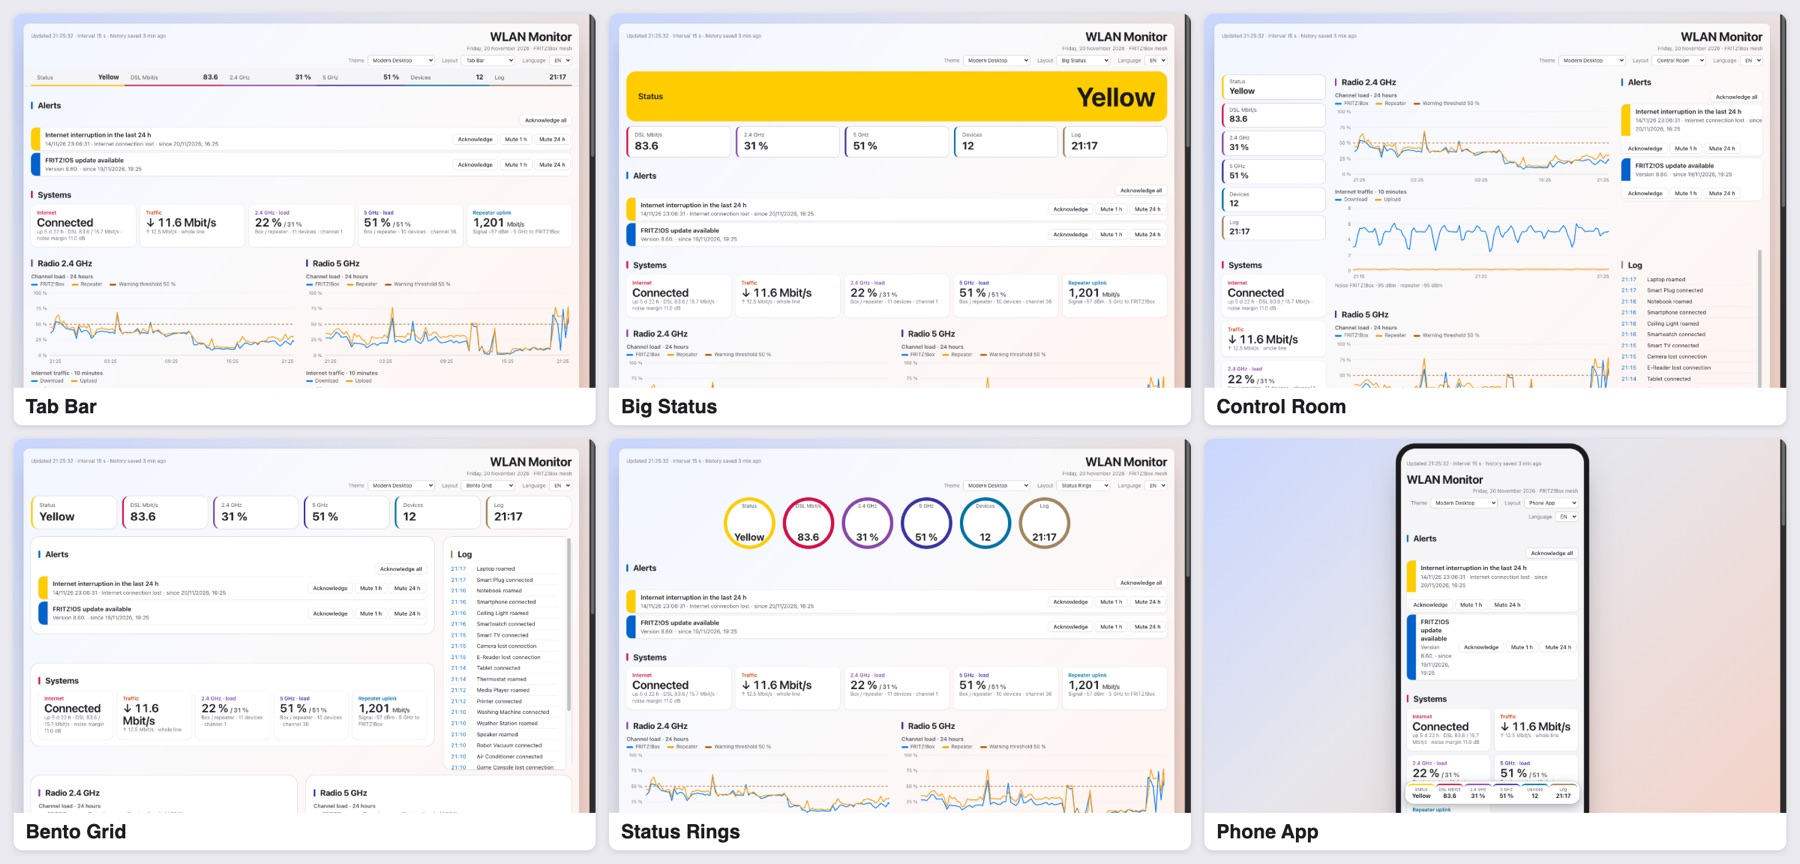
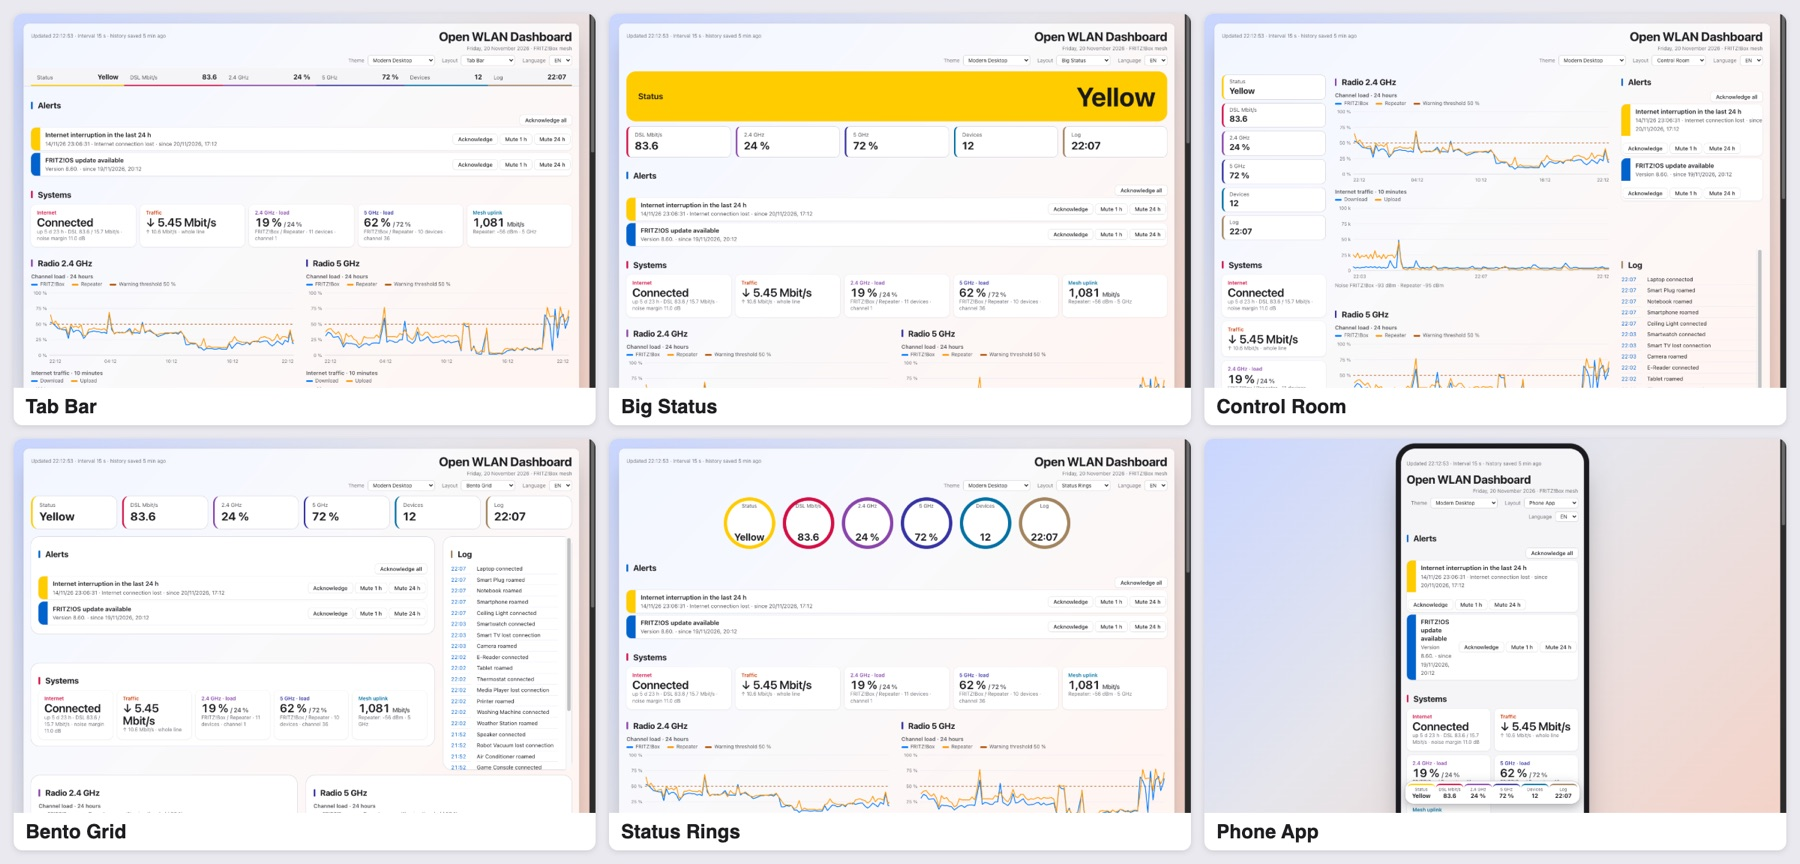
Rename to Open WLAN Dashboard and prefix all settings with OWD_
Settings: every .env key now starts with OWD_ (OWD_FRITZ_HOST, OWD_POLL_S,
OWD_IP, ...) so they cannot clash with other environment variables; TZ
stays as it is. The Python constants keep their short names.

Name: page title, README, banner, Docker image (open-wlan-dashboard) and
the LaunchAgent template (local.open-wlan-dashboard.collect) use the new
project name. The banner keeps the logo at full size with the longer title.
README screenshots show the new title and neutral router names; the
.env.example and self-test examples no longer use a real repeater name.

diff --git a/web/index.html b/web/index.html
@@ -1,5 +1,5 @@
 <!doctype html><html lang="en"><head><meta charset="utf-8"><meta name="viewport" content="width=device-width,initial-scale=1">
-<title>WLAN Monitor</title>
+<title>Open WLAN Dashboard</title>
 <link rel="preconnect" href="https://fonts.googleapis.com"><link rel="preconnect" href="https://fonts.gstatic.com" crossorigin>
 <link rel="stylesheet" href="/base.css"><link rel="stylesheet" href="/themes.css"><link rel="stylesheet" href="/layouts.css">
 <link href="https://fonts.googleapis.com/css2?family=Antonio:wght@400;600;700&family=Black+Ops+One&family=Old+Standard+TT:ital,wght@0,400;0,700;1,400&family=Orbitron:wght@500;700;900&family=Playfair+Display:wght@700;900&family=Press+Start+2P&family=Rajdhani:wght@500;700&family=UnifrakturMaguntia&family=Zilla+Slab:wght@700&family=Bitter:wght@400;700&family=Fredoka:wght@500;700&family=Pacifico&family=Nunito:wght@400;700;800&family=Lobster&family=Oswald:wght@400;600&family=Caveat+Brush&family=VT323&family=Barlow+Condensed:wght@500;700&family=Jost:wght@400;600;800&family=Share+Tech+Mono&family=Audiowide&family=IBM+Plex+Mono:wght@400;600&family=Architects+Daughter&family=Oxanium:wght@500;700&family=Rye&family=Special+Elite&family=MedievalSharp&family=Poiret+One&family=Bangers&family=Comic+Neue:wght@400;700&family=Shippori+Mincho:wght@500;700&family=Comfortaa:wght@500;700&family=Quicksand:wght@500;700&family=Mountains+of+Christmas:wght@700&family=Cabin+Sketch:wght@700&family=Patrick+Hand&family=Kalam:wght@400;700&family=Abril+Fatface&family=Lora:wght@400;600&family=B612:wght@400;700&family=B612+Mono&family=Silkscreen&family=Righteous&family=Bungee&family=Exo+2:wght@500;700&display=swap" rel="stylesheet" media="print" onload="this.media='all'"><!-- non-blocking: the page must load without internet -->
@@ -21,7 +21,7 @@
   <div class="bar" aria-hidden="true"><i style="flex:5;background:var(--o1)"></i><i style="width:70px;background:var(--li)"></i><i style="width:150px;background:var(--pw)"></i><i style="flex:1;background:var(--o2)"></i><i style="width:46px;background:var(--sk);border-radius:0 12px 12px 0"></i></div>
   <div class="inner">
    <header><div><span class="alarm" id="alarm" style="--c:var(--good)" data-i18n="loading">Loading …</span><div class="sub" id="upd" data-i18n="connecting">Connecting to the FRITZ!Box …</div></div>
-    <div><h1 data-i18n="title">WLAN Monitor</h1><div class="sub sd" id="sd"></div>
+    <div><h1 data-i18n="title">Open WLAN Dashboard</h1><div class="sub sd" id="sd"></div>
      <div class="prefs"><label class="themesel"><span data-i18n="theme">Theme</span> <select id="theme"><!--THEME_OPTIONS--></select></label>
      <label class="themesel"><span data-i18n="layout">Layout</span> <select id="layout"><!--LAYOUT_OPTIONS--></select></label>
      <label class="themesel"><span data-i18n="language">Language</span> <select id="lang"><option value="en">EN</option><option value="de">DE</option></select></label></div></div></header>

diff --git a/themes/desktop90s.css b/themes/desktop90s.css
@@ -20,7 +20,7 @@ html[data-theme="desktop90s"]{
  & .pill:hover,& .pill:focus-visible{background:#000080;color:#fff;filter:none}& .pill:hover b,& .pill:focus-visible b{color:#fff}
  & .main{background:#c0c0c0;box-shadow:var(--raised);padding:3px}
  & .main>.bar:first-child{height:24px;background:var(--title);color:#fff;font-weight:700;align-items:center;padding:0 4px 0 8px}
- & .main>.bar:first-child::before{content:"WLAN Monitor.exe"}&:lang(de) .main>.bar:first-child::before{content:"WLAN-Überwachung.exe"}
+ & .main>.bar:first-child::before{content:"OpenWLANDashboard.exe"}
  & .main>.bar:first-child::after{content:"✕";margin-left:auto;width:18px;height:16px;background:#c0c0c0;color:#000;box-shadow:var(--raised);font-size:11px;display:grid;place-items:center}
  & .main>.bar i{display:none}& .main>.bar:last-child{display:none}
  & .inner::before,& .inner::after{display:none}& .inner{padding:12px 10px}

diff --git a/web/i18n.js b/web/i18n.js
@@ -1,7 +1,7 @@
 // Page texts by language. {name} is filled in by T() in app.js; alert texts are a.<key>.t (title) and a.<key>.d (detail).
 const I18N={
 en:{
- "title":"WLAN Monitor",
+ "title":"Open WLAN Dashboard",
  "nav":"Sections",
  "loading":"Loading …",
  "connecting":"Connecting to the FRITZ!Box …",
@@ -175,7 +175,7 @@ en:{
  "mesh":"FRITZ!Box mesh"
 },
 de:{
- "title":"WLAN-Überwachung",
+ "title":"Open WLAN Dashboard",
  "nav":"Bereiche",
  "loading":"Lade …",
  "connecting":"Verbinde mit der FRITZ!Box …",

diff --git a/dashboard.py b/dashboard.py
@@ -1,5 +1,5 @@
 #!/usr/bin/env python3
-"""Local WLAN health dashboard for a FRITZ!Box mesh (box + any number of mesh routers), read-only.
+"""Open WLAN Dashboard: local WLAN health dashboard for a FRITZ!Box mesh (box + any number of mesh routers), read-only.
 
 Shows internet line, band load, traffic, per-device link quality and recent WLAN events,
 and raises alerts early: always-on devices going offline, reconnect loops, weak signals,
@@ -22,21 +22,21 @@ THEME_DIR = os.path.join(DIR, "themes")   # one CSS file per theme, see README
 LAYOUT_DIR = os.path.join(DIR, "layouts") # one CSS file per layout (arrangement only, colours come from the theme)
 S = settings.get        # every setting below can be changed in .env; .env.example explains them
 PORT = live.PORT
-POLL_S = S("POLL_S", 15)                       # page refresh interval; the box is queried at most this often
-UTIL_WARN, UTIL_CRIT = S("UTIL_WARN", 50), S("UTIL_CRIT", 70)            # channel load in % (mean of the last 30 min)
-NOISE_WARN = S("NOISE_WARN", -85)                                        # dBm; values above mean a noisy channel
-RSSI_WARN, RSSI_CRIT = S("RSSI_WARN", -75), S("RSSI_CRIT", -80)          # dBm; only for always-on devices
-DROPS_WARN, DROPS_CRIT = S("DROPS_WARN", 4), S("DROPS_CRIT", 10)         # disconnects per hour, roaming excluded
-UPLINK_RSSI_WARN, UPLINK_RATE_WARN = S("UPLINK_RSSI_WARN", -70), S("UPLINK_RATE_WARN", 400)  # mesh uplink on 5 GHz
-SNR_WARN = S("SNR_WARN", 6.0)                                            # DSL noise margin in dB
-ALWAYS_ON_SHARE, ALWAYS_ON_MIN_SAMPLES = S("ALWAYS_ON_SHARE", 0.9), S("ALWAYS_ON_MIN_SAMPLES", 8)
-COLLECTOR_STALE_MIN = S("COLLECTOR_STALE_MIN", 40)
-REBOOT_ALERT_H = S("REBOOT_ALERT_H", 24)       # show a box restart this long
-ROAM_WINDOW_S = S("ROAM_WINDOW_S", 10)
-RECONNECT_WINDOW_S = S("RECONNECT_WINDOW_S", 600)  # a logoff is a drop only if the device is back this soon
-ACK_FORGET_S = S("ACK_FORGET_S", 600)          # a confirmation is dropped once its problem has been gone this long
+POLL_S = S("OWD_POLL_S", 15)                       # page refresh interval; the box is queried at most this often
+UTIL_WARN, UTIL_CRIT = S("OWD_UTIL_WARN", 50), S("OWD_UTIL_CRIT", 70)            # channel load in % (mean of the last 30 min)
+NOISE_WARN = S("OWD_NOISE_WARN", -85)                                        # dBm; values above mean a noisy channel
+RSSI_WARN, RSSI_CRIT = S("OWD_RSSI_WARN", -75), S("OWD_RSSI_CRIT", -80)          # dBm; only for always-on devices
+DROPS_WARN, DROPS_CRIT = S("OWD_DROPS_WARN", 4), S("OWD_DROPS_CRIT", 10)         # disconnects per hour, roaming excluded
+UPLINK_RSSI_WARN, UPLINK_RATE_WARN = S("OWD_UPLINK_RSSI_WARN", -70), S("OWD_UPLINK_RATE_WARN", 400)  # mesh uplink on 5 GHz
+SNR_WARN = S("OWD_SNR_WARN", 6.0)                                            # DSL noise margin in dB
+ALWAYS_ON_SHARE, ALWAYS_ON_MIN_SAMPLES = S("OWD_ALWAYS_ON_SHARE", 0.9), S("OWD_ALWAYS_ON_MIN_SAMPLES", 8)
+COLLECTOR_STALE_MIN = S("OWD_COLLECTOR_STALE_MIN", 40)
+REBOOT_ALERT_H = S("OWD_REBOOT_ALERT_H", 24)       # show a box restart this long
+ROAM_WINDOW_S = S("OWD_ROAM_WINDOW_S", 10)
+RECONNECT_WINDOW_S = S("OWD_RECONNECT_WINDOW_S", 600)  # a logoff is a drop only if the device is back this soon
+ACK_FORGET_S = S("OWD_ACK_FORGET_S", 600)          # a confirmation is dropped once its problem has been gone this long
 # devices never treated as always-on (no offline or weak-signal alerts), e.g. a game console that is often off
-NEVER_ALWAYS_ON = {m.upper() for m in S("NEVER_ALWAYS_ON", [])}
+NEVER_ALWAYS_ON = {m.upper() for m in S("OWD_NEVER_ALWAYS_ON", [])}
 MESH_NAMES = settings.mesh_names()             # display names for mesh nodes, see .env.example
 ACK_FILE = os.path.join(settings.DATA_DIR, "acks.json")
 RAISED_FILE = os.path.join(settings.DATA_DIR, "alerts.json")  # when each current alert first appeared
@@ -81,7 +81,7 @@ def classify(events):
 
 def ap_names(m, overrides=None):
     """{name in the box: display name} for the mesh nodes; "" stands for the box itself (its log lines carry no
-    [name] prefix). The master is 'FRITZ!Box', the others keep their name in the box; MESH_NAMES overrides both."""
+    [name] prefix). The master is 'FRITZ!Box', the others keep their name in the box; OWD_MESH_NAMES overrides both."""
     over = MESH_NAMES if overrides is None else overrides
     out = {}
     for n in m["nodes"]:
@@ -668,13 +668,13 @@ class Handler(BaseHTTPRequestHandler):
 
 def selftest():
     ev = [parse_event("13.11.26", "22:00:00", "WLAN-Gerät wurde abgemeldet (5 GHz), iPhone, IP 192.168.178.118, MAC 02:00:00:00:00:01."),
-          parse_event("13.11.26", "22:00:01", "[fritzrepeaterschlafzimmer] WLAN-Gerät angemeldet (5 GHz), 1201 Mbit/s, PC-02, IP 192.168.178.118, MAC 02:00:00:00:00:01."),
-          parse_event("13.11.26", "22:10:00", "[fritzrepeaterschlafzimmer] WLAN-Gerät hat sich abgemeldet (2,4 GHz), PC-00, IP 192.168.178.29, MAC 00:00:5E:00:53:01."),
-          parse_event("13.11.26", "22:10:02", "[fritzrepeaterschlafzimmer] WLAN-Gerät angemeldet (2,4 GHz), 72 Mbit/s, PC-00, IP 192.168.178.29, MAC 00:00:5E:00:53:01."),
+          parse_event("13.11.26", "22:00:01", "[fritzrepeater1] WLAN-Gerät angemeldet (5 GHz), 1201 Mbit/s, PC-02, IP 192.168.178.118, MAC 02:00:00:00:00:01."),
+          parse_event("13.11.26", "22:10:00", "[fritzrepeater1] WLAN-Gerät hat sich abgemeldet (2,4 GHz), PC-00, IP 192.168.178.29, MAC 00:00:5E:00:53:01."),
+          parse_event("13.11.26", "22:10:02", "[fritzrepeater1] WLAN-Gerät angemeldet (2,4 GHz), 72 Mbit/s, PC-00, IP 192.168.178.29, MAC 00:00:5E:00:53:01."),
           parse_event("13.11.26", "22:20:00", "WLAN-Gerät hat sich abgemeldet (2,4 GHz), VR200-EG, IP ---, MAC 00:00:5E:00:53:02."),
           parse_event("13.11.26", "22:31:00", "WLAN-Gerät angemeldet (2,4 GHz), 72 Mbit/s, VR200-EG, IP ---, MAC 00:00:5E:00:53:02.")]
     assert all(ev), "log line not parsed"
-    assert ev[1]["ap"] == "fritzrepeaterschlafzimmer" and ev[0]["ap"] == "" and ev[2]["band"] == "2.4" and ev[1]["up"]
+    assert ev[1]["ap"] == "fritzrepeater1" and ev[0]["ap"] == "" and ev[2]["band"] == "2.4" and ev[1]["up"]
     kinds = [e["kind"] for e in classify(ev)]
     assert kinds == ["roam", "login", "drop", "login", "off", "login"], kinds  # box->repeater is roaming; quick relogin is a drop; back after 11 min is standby
     assert is_random_mac("02:00:00:00:00:01") and not is_random_mac("00:00:5E:00:53:01")
@@ -754,10 +754,10 @@ def selftest():
     assert set(ups) == {"Repeater A", "Cellar", "rep-c"} and ups["Repeater A"]["band"] == "5" and ups["Repeater A"]["rssi"] == -72
     assert ups["Repeater A"]["down"] == 866 and ups["Cellar"]["band"] == "LAN" and ups["rep-c"]["band"] is None
     env = os.path.join(tempfile.mkdtemp(), ".env")
-    open(env, "w").write('# comment\nFRITZ_HOST = "10.0.0.1"\nPOLL_S=30\nNEVER_ALWAYS_ON=aa:bb, cc:dd\nMESH_NAMES=rep-a=Attic,rep-b=Cellar\nbroken line\n')
+    open(env, "w").write('# comment\nOWD_FRITZ_HOST = "10.0.0.1"\nOWD_POLL_S=30\nOWD_NEVER_ALWAYS_ON=aa:bb, cc:dd\nOWD_MESH_NAMES=rep-a=Attic,rep-b=Cellar\nbroken line\n')
     vals = settings.read_env(env)
-    assert settings.get("FRITZ_HOST", "x", vals) == "10.0.0.1" and settings.get("POLL_S", 15, vals) == 30 and settings.get("MISSING", 7, vals) == 7
-    assert settings.get("NEVER_ALWAYS_ON", [], vals) == ["aa:bb", "cc:dd"] and settings.mesh_names(vals) == {"rep-a": "Attic", "rep-b": "Cellar"}
+    assert settings.get("OWD_FRITZ_HOST", "x", vals) == "10.0.0.1" and settings.get("OWD_POLL_S", 15, vals) == 30 and settings.get("MISSING", 7, vals) == 7
+    assert settings.get("OWD_NEVER_ALWAYS_ON", [], vals) == ["aa:bb", "cc:dd"] and settings.mesh_names(vals) == {"rep-a": "Attic", "rep-b": "Cellar"}
     assert settings.read_env(env + ".missing") == {}
     assert load_pct("37") == 37 and load_pct(12) == 12 and load_pct("0") is None and load_pct(0) is None and load_pct("") is None and load_pct(None) is None
     assert net_issue_kind("Internetverbindung wurde getrennt.") == "disconnected"

diff --git a/settings.py b/settings.py
@@ -46,24 +46,24 @@ def get(key, default, vals=None):
 
 
 def password():
-    """FRITZ_PASSWORD, or the first line of FRITZ_PASSWORD_FILE. Read on first login, so the self-test needs none."""
-    pw = get("FRITZ_PASSWORD", "")
+    """OWD_FRITZ_PASSWORD, or the first line of OWD_FRITZ_PASSWORD_FILE. Read on first login, so the self-test needs none."""
+    pw = get("OWD_FRITZ_PASSWORD", "")
     if pw:
         return pw
-    path = os.path.expanduser(get("FRITZ_PASSWORD_FILE", "~/.claude_fritz"))
+    path = os.path.expanduser(get("OWD_FRITZ_PASSWORD_FILE", "~/.claude_fritz"))
     try:
         with open(path) as f:
             return f.readline().strip()
     except FileNotFoundError:
-        raise RuntimeError(f"no FRITZ!Box password: set FRITZ_PASSWORD or put it into {path}") from None
+        raise RuntimeError(f"no FRITZ!Box password: set OWD_FRITZ_PASSWORD or put it into {path}") from None
 
 
 def mesh_names(vals=None):
-    """MESH_NAMES=box-name=Label,other-name=Label: display names for mesh nodes by their name in the box."""
-    return dict(p.split("=", 1) for p in get("MESH_NAMES", [], vals) if "=" in p)
+    """OWD_MESH_NAMES=box-name=Label,other-name=Label: display names for mesh nodes by their name in the box."""
+    return dict(p.split("=", 1) for p in get("OWD_MESH_NAMES", [], vals) if "=" in p)
 
 
-BOX = get("FRITZ_HOST", "192.168.178.1")
-USER = get("FRITZ_USER", "claude")
-DATA_DIR = os.path.expanduser(get("DATA_DIR", DIR))   # history, alert states (private data)
-BIND = get("DASHBOARD_BIND", "127.0.0.1")            # 0.0.0.0 only inside a container, see compose.yaml
+BOX = get("OWD_FRITZ_HOST", "192.168.178.1")
+USER = get("OWD_FRITZ_USER", "claude")
+DATA_DIR = os.path.expanduser(get("OWD_DATA_DIR", DIR))   # history, alert states (private data)
+BIND = get("OWD_DASHBOARD_BIND", "127.0.0.1")            # 0.0.0.0 only inside a container, see compose.yaml

diff --git a/live.py b/live.py
@@ -12,7 +12,7 @@ from http.server import BaseHTTPRequestHandler, ThreadingHTTPServer
 import settings
 
 BOX, USER = settings.BOX, settings.USER
-PORT = settings.get("DASHBOARD_PORT", 8765)
+PORT = settings.get("OWD_DASHBOARD_PORT", 8765)
 
 _opener = None
 _sid = None
@@ -83,7 +83,7 @@ def own_ip():
     s = socket.socket(socket.AF_INET, socket.SOCK_DGRAM)
     try:
         s.connect((BOX, 80))
-        return settings.get("OWN_IP", "") or s.getsockname()[0]  # OWN_IP: the host's address when run in a container
+        return settings.get("OWD_IP", "") or s.getsockname()[0]  # OWD_IP: the host's address when run in a container
     finally:
         s.close()
 

diff --git a/README.md b/README.md
@@ -1,6 +1,6 @@
-![WLAN Dashboard – local WiFi health monitoring](assets/banner.png)
+![Open WLAN Dashboard – local WiFi health monitoring](assets/banner.png)
 
-# WLAN Dashboard
+# Open WLAN Dashboard
 
 A local, read-only health dashboard for a FRITZ!Box mesh: the FRITZ!Box and any number of
 FRITZ!Repeaters or other mesh routers. It shows the internet line, channel load and traffic per band,
@@ -89,8 +89,8 @@ The screenshots show demo data, no real devices.
 4. Start the history collector every 15 minutes (macOS):
 
    ```sh
-   sed "s#/path/to/wlan-dashboard#$PWD#g" launchd/local.wlan-test.collect.plist > ~/Library/LaunchAgents/local.wlan-test.collect.plist
-   launchctl bootstrap gui/$(id -u) ~/Library/LaunchAgents/local.wlan-test.collect.plist
+   sed "s#/path/to/open-wlan-dashboard#$PWD#g" launchd/local.open-wlan-dashboard.collect.plist > ~/Library/LaunchAgents/local.open-wlan-dashboard.collect.plist
+   launchctl bootstrap gui/$(id -u) ~/Library/LaunchAgents/local.open-wlan-dashboard.collect.plist
    ```
 
    On the first run macOS asks for "Local Network" access for `python3`; allow it
@@ -108,19 +108,19 @@ Self-test: `python3 dashboard.py --selftest`
 Instead of steps 4 and 5 you can run the dashboard and the collector in containers:
 
 ```sh
-cp .env.example .env && chmod 600 .env   # then set FRITZ_PASSWORD and OWN_IP in .env
+cp .env.example .env && chmod 600 .env   # then set OWD_FRITZ_PASSWORD and OWD_IP in .env
 docker compose up -d
 ```
 
 Open http://127.0.0.1:8765. `compose.yaml` starts two services from one image: the dashboard and the
 collector, which runs every 15 minutes. They share the volume `data` for history and alert states.
 
-- **Password:** set `FRITZ_PASSWORD` in `.env`, or mount your password file read-only and point
-  `FRITZ_PASSWORD_FILE` to it.
-- **`OWN_IP`:** the LAN address of the computer that runs Docker. A container sees its own address, so
+- **Password:** set `OWD_FRITZ_PASSWORD` in `.env`, or mount your password file read-only and point
+  `OWD_FRITZ_PASSWORD_FILE` to it.
+- **`OWD_IP`:** the LAN address of the computer that runs Docker. A container sees its own address, so
   without this setting the box's traffic figures for that computer are not matched.
 - **`TZ`:** the time zone of the box log, `Europe/Berlin` unless set in `.env`.
-- **Access:** the port is published on `127.0.0.1` of the host only; `DASHBOARD_PORT` in `.env` changes it.
+- **Access:** the port is published on `127.0.0.1` of the host only; `OWD_DASHBOARD_PORT` in `.env` changes it.
 - **Update:** `docker compose up -d --build`. **Stop:** `docker compose down` (add `-v` to delete the history).
 
 The image contains the code only (see `.dockerignore`), runs as an unprivileged user and runs the
@@ -129,7 +129,7 @@ self-test while it is built.
 **Update:** pull the new version and restart `dashboard.py`; the collector picks up the new code on
 its next run. Your `.env`, history and alert states stay.
 
-**Stop the collector:** `launchctl bootout gui/$(id -u)/local.wlan-test.collect`
+**Stop the collector:** `launchctl bootout gui/$(id -u)/local.open-wlan-dashboard.collect`
 
 ## Settings
 
@@ -137,32 +137,32 @@ All settings live in `.env` next to `dashboard.py`. Every setting is optional an
 in [`.env.example`](.env.example), which also explains each one; an environment variable of the same
 name wins over the file. Restart `dashboard.py` after a change; the collector reads `.env` on its next run.
 
-- **FRITZ!Box access:** `FRITZ_HOST`, `FRITZ_USER`, and the password either as `FRITZ_PASSWORD` or
-  (default) in the file `FRITZ_PASSWORD_FILE`.
-- **Mesh routers:** `MESH_NAMES=fritzrepeaterkeller=Cellar,...` gives routers shorter names, by their
+- **FRITZ!Box access:** `OWD_FRITZ_HOST`, `OWD_FRITZ_USER`, and the password either as `OWD_FRITZ_PASSWORD` or
+  (default) in the file `OWD_FRITZ_PASSWORD_FILE`.
+- **Mesh routers:** `OWD_MESH_NAMES=fritzrepeaterkeller=Cellar,...` gives routers shorter names, by their
   name in the box (as in the box's WLAN log).
-- **Dashboard:** `DASHBOARD_PORT`, `POLL_S` (refresh interval in seconds), `DATA_DIR` (where history and
-  alert states are written). The dashboard listens on `127.0.0.1` (`DASHBOARD_BIND`; only the Docker
+- **Dashboard:** `OWD_DASHBOARD_PORT`, `OWD_POLL_S` (refresh interval in seconds), `OWD_DATA_DIR` (where history and
+  alert states are written). The dashboard listens on `127.0.0.1` (`OWD_DASHBOARD_BIND`; only the Docker
   image changes it, and compose still publishes the port on this computer only).
-- **Docker:** `OWN_IP` and `TZ`, see [Docker](#docker).
+- **Docker:** `OWD_IP` and `TZ`, see [Docker](#docker).
 - **Alert thresholds:** channel load, noise, signal, disconnects per hour, mesh uplink, DSL noise margin,
   collector and restart times, and the time windows for roaming and reconnects.
-- **Always-on detection:** `ALWAYS_ON_SHARE`, `ALWAYS_ON_MIN_SAMPLES`, and `NEVER_ALWAYS_ON`, a
+- **Always-on detection:** `OWD_ALWAYS_ON_SHARE`, `OWD_ALWAYS_ON_MIN_SAMPLES`, and `OWD_NEVER_ALWAYS_ON`, a
   comma-separated list of MAC addresses that never count as always-on (e.g. a game console that is
   often switched off); they raise no offline or weak-signal alerts.
 
 ## How it works
 
 - `dashboard.py` is a small web server (Python standard library only) on `http://127.0.0.1` and the
-  port from `DASHBOARD_PORT`. Nothing outside this computer can reach it.
+  port from `OWD_DASHBOARD_PORT`. Nothing outside this computer can reach it.
 - It logs in to the FRITZ!Box with its own user and only reads; it never changes settings.
-- On every refresh (`POLL_S`, default 15 s; several open tabs share one query) it reads the mesh
+- On every refresh (`OWD_POLL_S`, default 15 s; several open tabs share one query) it reads the mesh
   topology with the link quality of every WLAN device, the online monitor for traffic, the network
   device list, DSL and internet status and the box log.
 - The FRITZ!Box is the mesh master and reports the whole mesh, so mesh routers are never queried
   directly. This is why any number of them works.
 - The 24 h history (signal, rate and channel load over time, WLAN log events) comes from `collect.py`,
-  which runs every 15 minutes and appends to `links.csv`, `aps.csv` and `events.jsonl` in `DATA_DIR`.
+  which runs every 15 minutes and appends to `links.csv`, `aps.csv` and `events.jsonl` in `OWD_DATA_DIR`.
 - Alert acknowledgements and the time each alert first appeared are kept in `acks.json` and `alerts.json`.
 - The page (`web/index.html`, `web/app.js`) fetches `/data` and draws its charts itself, without
   external JavaScript libraries.
@@ -181,7 +181,7 @@ name wins over the file. Restart `dashboard.py` after a change; the collector re
 | `web/i18n.js` | All page texts in English and German, see [Translations](#translations) |
 | `themes/*.css` | One file per theme; the theme menu is built from this folder |
 | `layouts/*.css` | One file per layout; the layout menu is built from this folder |
-| `launchd/local.wlan-test.collect.plist` | macOS LaunchAgent template that runs `collect.py` every 15 minutes |
+| `launchd/local.open-wlan-dashboard.collect.plist` | macOS LaunchAgent template that runs `collect.py` every 15 minutes |
 | `Dockerfile`, `compose.yaml`, `.dockerignore` | Container image and the two services, see [Docker](#docker) |
 
 ## Troubleshooting and known limitations
@@ -193,7 +193,7 @@ name wins over the file. Restart `dashboard.py` after a change; the collector re
   Such readings are shown as "–" and left out of means and charts.
 - **"History collection stopped" alert:** the collector only runs while the computer is awake. Check
   `collect.log` and the "Local Network" permission for `python3`.
-- **Login fails:** check `FRITZ_HOST`, `FRITZ_USER` and the password in `.env` or the password file,
+- **Login fails:** check `OWD_FRITZ_HOST`, `OWD_FRITZ_USER` and the password in `.env` or the password file,
   and that the FRITZ!Box user may access FRITZ!Box settings.
 
 ## Themes
@@ -328,7 +328,7 @@ To add a language:
 ## Private data — never commit
 
 The collector and the dashboard write MAC addresses, device names and network events into this
-directory or `DATA_DIR` (`*.csv`, `*.jsonl`, `*.log`, `acks.json`, `alerts.json`), and `.env` may hold
+directory or `OWD_DATA_DIR` (`*.csv`, `*.jsonl`, `*.log`, `acks.json`, `alerts.json`), and `.env` may hold
 the password and MAC addresses. All of them are excluded via `.gitignore`, and `.dockerignore` keeps
 them out of the Docker image. Keep the password file outside the
 repository. Screenshots for the repository use demo data only.
